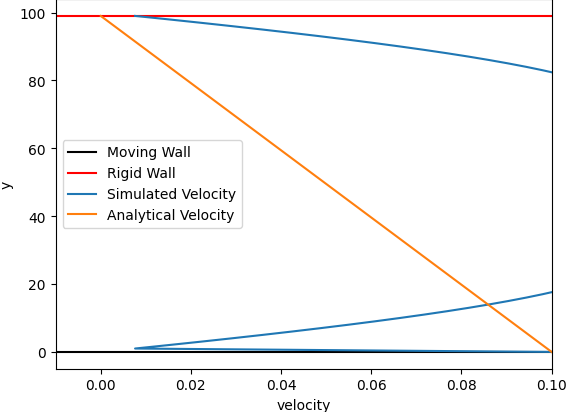
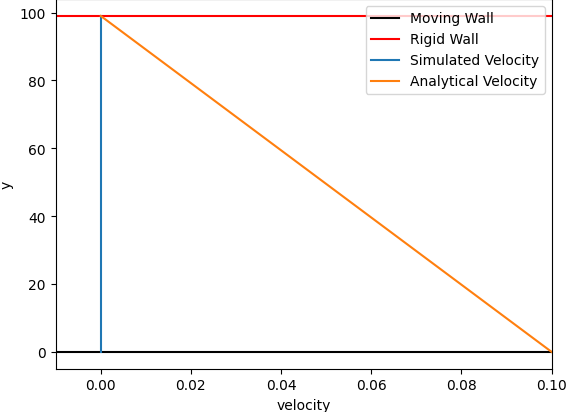
Add Carla the cow

diff --git a/lb/boundaries.py b/lb/boundaries.py
@@ -20,10 +20,18 @@ class Boundary():
         else:
             raise ValueError("Invalid placement: {}".format(placement))
  
-    @abstractmethod
-    def cache(self):
-        """Called before stream and collide to cache the pre-stream values."""
-        pass
+    
+    def cache(self, f):
+        if (self.placement == 'top'):
+            self.cached = f[:, :, 1]
+        elif (self.placement == 'bottom'):
+            self.cached = f[:, :, -2]
+        elif (self.placement == 'left'):
+            self.cached = f[:, 1, :]
+        elif (self.placement == 'right'):
+            self.cached = f[:, -2, :]
+        else:
+            raise ValueError("Invalid placement: {}".format(self.placement))
 
     @abstractmethod
     def apply(self):
@@ -39,28 +47,16 @@ class Boundary():
 class RigidWall(Boundary):
     def __init__(self, placement='bottom'):
         super().__init__(placement)
-
-    def cache(self, f):
-        if (self.placement == 'top'):
-            self.cached = f[:, :, 1]
-        elif (self.placement == 'bottom'):
-            self.cached = f[:, :, -2]
-        elif (self.placement == 'left'):
-            self.cached = f[:, 1, :]
-        elif (self.placement == 'right'):
-            self.cached = f[:, -2, :]
-        else:
-            raise ValueError("Invalid placement: {}".format(self.placement))
     
     def apply(self, f):
         if (self.placement == 'top'):
-            f[self.input_channels, -1, :] = self.cached[self.output_channels, -1, :]
+            f[self.input_channels, :, 0] = self.cached[self.output_channels, :]
         elif (self.placement == 'bottom'):
-            f[self.input_channels, 0, :] = self.cached[self.output_channels, 0, None]
+            f[self.input_channels, :, -1] = self.cached[self.output_channels, :]
         elif (self.placement == 'left'):
-            f[self.input_channels, :, 0] = self.cached[self.output_channels, :, 0]
+            f[self.input_channels, 0, :] = self.cached[self.output_channels, :]
         elif (self.placement == 'right'):
-            f[self.input_channels, :, -1] = self.cached[self.output_channels, :, -1]
+            f[self.input_channels, -1, :] = self.cached[self.output_channels, :]
         else:
             raise ValueError("Invalid placement: {}".format(self.placement))
     
@@ -68,11 +64,11 @@ class RigidWall(Boundary):
         if (self.placement == 'top'):
             velocities[:, :, 0] = 0.0
         elif (self.placement == 'bottom'):
-            velocities[:, :, -1] = 0.0
+            velocities.T[-1] = 0.0
         elif (self.placement == 'left'):
-            velocities[:, 0,: ] = 0.0
+            velocities[:, 0, : ] = 0.0
         elif (self.placement == 'right'):
-            velocities[:, -1,: ] = 0.0
+            velocities[:, -1, : ] = 0.0
         else:
             raise ValueError("Invalid placement: {}".format(self.placement))
     
@@ -85,57 +81,47 @@ class MovingWall(Boundary):
         self.cs = cs
     
     def calculate_wall_density(self, f):
-        return lb.calculate_density(f[:,:,1])
+        return lb.calculate_density(f[:, :, 1])
 
     def update_f(self, f, value):
-        f[self.input_channels,:,0] = value
-    
-    def cache(self, f):
-        if (self.placement == 'top'):
-            self.cached = f[:, :, 1]
-        elif (self.placement == 'bottom'):
-            self.cached = f[:, :, -2]
-        elif (self.placement == 'left'):
-            self.cached = f[:, 1, :]
-        elif (self.placement == 'right'):
-            self.cached = f[:, -2, :]
-        else:
-            raise ValueError("Invalid placement: {}".format(self.placement))
+        f[self.input_channels, :, 0] = value
 
     def apply(self, f, C, W):
-        #coef = np.zeros((9, 100, 100))
-        #value = 2 * W[self.output_channels] * self.calculate_wall_density(f) * (C[self.output_channels] @ self.velocity)/ self.cs ** 2
-        #coef[self.output_channels, :, -1] = value[:, np.newaxis]
-        #f[self.input_channels, :, -1] = self.cached[self.output_channels, :, -1] - value #coef[self.output_channels, :, -1]
+        #density = self.calculate_wall_density(f)
+        #multiplier = 2 * (1/self.cs) ** 2
+        #temp = (C @ self.velocity)
+        #temp2 = density * W[:, None]
+        #momentum = multiplier * temp2 * temp[:, None]
+        #momentum = momentum[self.output_channels, :]
+        #temp3 = (self.cached[self.output_channels, :] - momentum)
+        #self.update_f(f, temp3)
+        
+        c = np.ascontiguousarray(
+            np.array([[0, 0, 1, 0, -1, 1, 1, -1, -1], # y
+                  [0, 1, 0, -1, 0, 1, -1, -1, 1]]).T) # x
 
-        density = self.calculate_wall_density(f)
-        """
-        multiplier = 2 * (1/self.cs) ** 2
-        temp = (C @ self.velocity)
-        
-        temp2 = density * W[:, None]
-        
-        momentum = multiplier * temp2 * temp[:, None]
-        momentum = momentum[self.output_channels, :]
-        temp3 = (self.cached[self.output_channels, :] - momentum)
-        self.update_f(f, temp3 )
-        """
+
+        w = np.ascontiguousarray(
+            np.array([4/9, 1/9, 1/9, 1/9, 1/9, 1/36, 1/36, 1/36, 1/36]).T,
+            dtype=np.float32)
+
         
         density = self.calculate_wall_density(f)
         multiplier = 2 * (1/self.cs) ** 2
-        momentum = multiplier * (C @ self.velocity) * (W.T * density[:, None])
-        momentum = momentum[:, self.output_channels].T
-        self.update_f(f, (self.cache[:, self.output_channels].T - momentum).T)
+        momentum = multiplier * (c @ self.velocity) * (w * density[:, None])
+        momentum = momentum[:, self.output_channels]
+        temp4 = (self.cached[self.output_channels, :] - momentum.T)
+        self.update_f(f, temp4 )
 
     def update_velocity(self, velocities):
         if (self.placement == 'top'):
-            velocities.T[:,0] = self.velocity
+            velocities.T[0, :] = self.velocity
         elif (self.placement == 'bottom'):
             velocities[:, :, -1] = self.velocity
         elif (self.placement == 'left'):
-            velocities[:, 0,: ] = self.velocity
+            velocities[:, 0, :] = self.velocity
         elif (self.placement == 'right'):
-            velocities[:, -1,: ] = self.velocity
+            velocities[:, -1, :] = self.velocity
         else:
             raise ValueError("Invalid placement: {}".format(self.placement))
 

diff --git a/couette_flow.py b/couette_flow.py
@@ -1,34 +1,31 @@
-import os
 import numpy as np
-import matplotlib.pyplot as plt
 from lb import LatticeBoltzmann
 from plot import Plotter2
-from lb import RigidWall, MovingWall, PeriodicWall
+from lb import RigidWall, MovingWall
 
-def couette_flow_sim(nx: int = 100, ny: int = 100, omega: float = 0.6, epsilon: float = 0.01,
-                          steps: int = 2000, p0: float = 1.0):
+def couette_flow_sim(nx: int = 100, ny: int = 100, omega: float = 0.6, steps: int = 2000):
     
-    # split velocity set into x and y components (unused right now)
-    #ux = np.zeros((nx, ny))
-    #uy = np.zeros((nx, ny))
-    #x, y = np.meshgrid(np.arange(nx), np.arange(ny))
-
     rho = np.ones((nx, ny))
     velocities = np.zeros((2, nx, ny))
-    boundaries = [MovingWall([0.0, 0.1],"top"), RigidWall("bottom")]#, PeriodicWall("left"), PeriodicWall("right")]
-
+    wall_velocity = [0.0, 0.1]
+    boundaries = [MovingWall(wall_velocity,"top"), RigidWall("bottom")]
 
     latticeBoltzmann = LatticeBoltzmann(rho, velocities, omega, boundaries)
     plotter = Plotter2()
 
     for(step) in range(steps):
         latticeBoltzmann.tick()
-        rho, velocities = latticeBoltzmann.get_rho(), latticeBoltzmann.get_velocities()
+        
         # plot shear wave every 200 steps 
-        for boundary in boundaries:
-                boundary.update_velocity(velocities)
         if((step % 200 == 0)):
-            plotter.plot_cuette_flow(velocities, [0.0, 0.1], step, nx, ny)
-        print("Step: {}".format(step))
+            rho, velocities = latticeBoltzmann.get_rho(), latticeBoltzmann.get_velocities()
+            for boundary in boundaries:
+                boundary.update_velocity(velocities)
+
+            if(velocities == latticeBoltzmann.get_velocities()).all():
+                print("velocities are equal")
+                
+            plotter.plot_cuette_flow(velocities, wall_velocity, step, nx, ny)
+            print("Step: {}".format(step))
 
 couette_flow_sim()

diff --git a/lb/latticeBoltzmann.py b/lb/latticeBoltzmann.py
@@ -9,13 +9,12 @@ W.setflags(write=False)
 
 
 class LatticeBoltzmann():
-    def __init__(self, rho, velocities, omega, boundaries=[]) -> None:
+    def __init__(self, rho, velocities, omega, boundaries = []) -> None:
         self.rho = rho
         self.velocities = velocities
         self.omega = omega
         self.boundaries = boundaries
         self.f = calculate_equilibrium(self.rho, self.velocities)
-        print("F lb Shape: " + str(self.f.shape))
         
 
     # Executes one time step for the Lattice Boltzmann method

diff --git a/test.py b/test.py
@@ -1,0 +1,24 @@
+class Cow():
+    def __init__(self, name):
+        self.name = name
+        self.age = 0
+    def speak(self):
+        print('Moo!')
+    def getAge(self):
+        print(self.age)
+        return self.age
+    def setAge(self, age):
+        self.age = age
+
+    def setAge2(self):
+        change(self.age)
+
+
+carla = Cow('Carla')
+carla.speak()
+i = carla.getAge()
+new = 5
+def change(i):
+    i = new
+
+carla.getAge()
